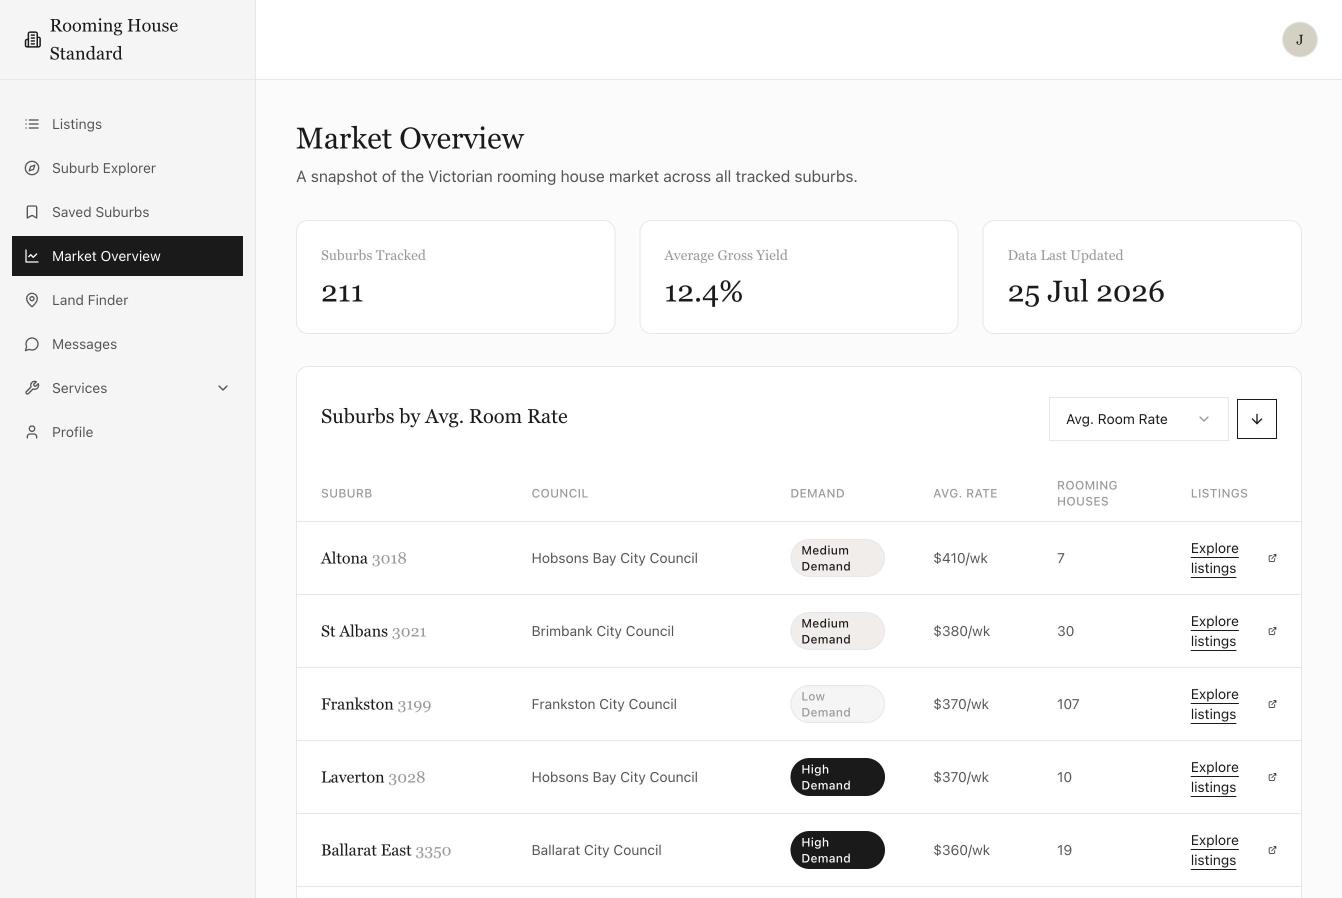
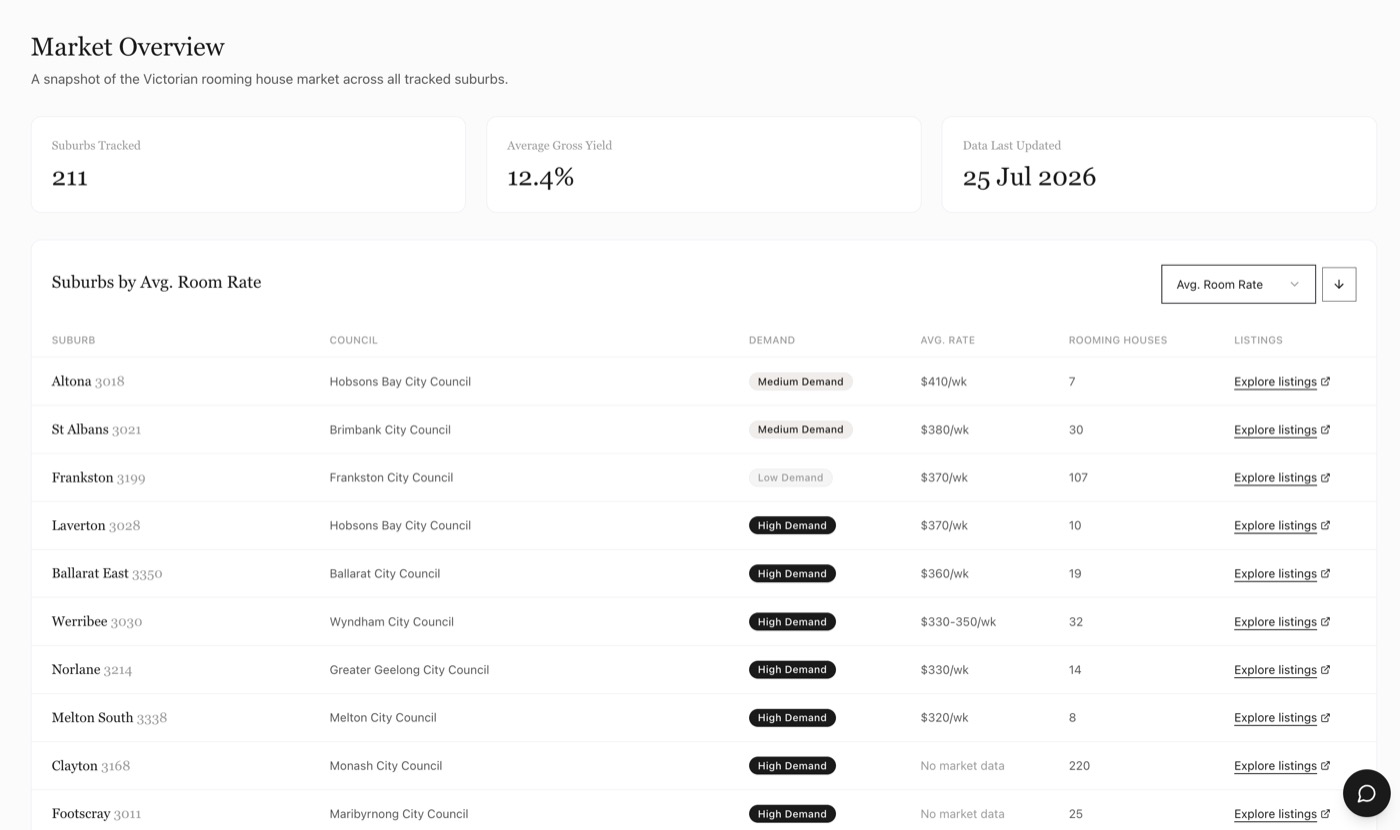
Wire in refreshed screenshots, add hints for Saved Suburbs and quote categories
Replaced the Suburb Explorer, Market Overview, and Messages hint images with
cleaner retakes; added a new image-backed hint to Saved Suburbs; and added a
brand-new per-category hint to the Services quote-request page (Insurance,
Property Management, Building each get their own screenshot; other
quote-based categories still get the hint, just text-only for now).

diff --git a/app/dashboard/services/[category]/page.tsx b/app/dashboard/services/[category]/page.tsx
@@ -8,7 +8,16 @@ import { Card, CardContent, CardHeader, CardTitle } from "@/components/ui/card";
 import { Badge } from "@/components/ui/badge";
 import { createClient } from "@/lib/supabase/server";
 import { BackLink } from "@/components/back-link";
+import { Hint } from "@/components/hints/hint";
 import { cn } from "@/lib/utils";
+
+// Only the categories we have an actual screenshot for — every other
+// quoteBased category still gets the hint, just text-only.
+const SERVICE_HINT_IMAGES: Record<string, string> = {
+  insurance: "/hints/services-insurance.jpg",
+  property_management: "/hints/services-property-management.jpg",
+  building: "/hints/services-building.jpg",
+};
 
 // Both branches below now render real, per-request Supabase data (quote
 // requests for the quoteBased categories, live approved providers for
@@ -82,6 +91,15 @@ export default async function ServiceCategoryPage({ params }: { params: { catego
     return (
       <div>
         <BackLink href="/dashboard/services" label="Services" />
+
+        <Hint
+          hintKey={`dashboard-services-${category.dbCategory}`}
+          title={category.label}
+          image={SERVICE_HINT_IMAGES[category.dbCategory]}
+        >
+          <p>{category.description}</p>
+          <p>Submit your details once and we&apos;ll bring back quotes here — no need to shop around yourself.</p>
+        </Hint>
 
         <h1 className="font-display text-3xl text-ink">{category.label}</h1>
         <p className="mt-2 max-w-2xl text-body">{category.description}</p>

diff --git a/app/dashboard/saved/page.tsx b/app/dashboard/saved/page.tsx
@@ -4,7 +4,7 @@ import { Hint } from "@/components/hints/hint";
 export default function SavedSuburbsPage() {
   return (
     <>
-      <Hint hintKey="dashboard-saved" title="Saved Suburbs">
+      <Hint hintKey="dashboard-saved" title="Saved Suburbs" image="/hints/dashboard-saved.jpg">
         <p>Suburbs you&apos;ve bookmarked while exploring — click the save icon on any suburb card to add one.</p>
         <p>Handy for quickly comparing your shortlist without re-searching every time.</p>
       </Hint>
